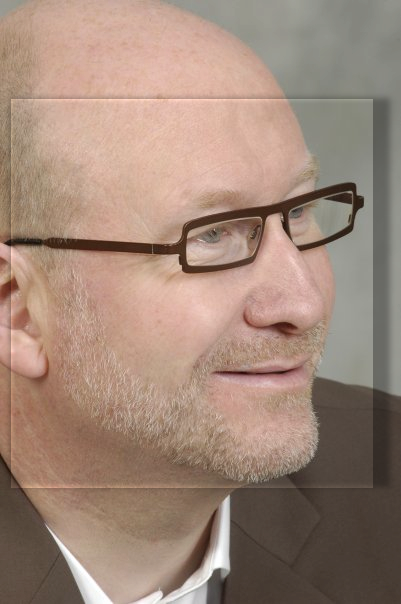
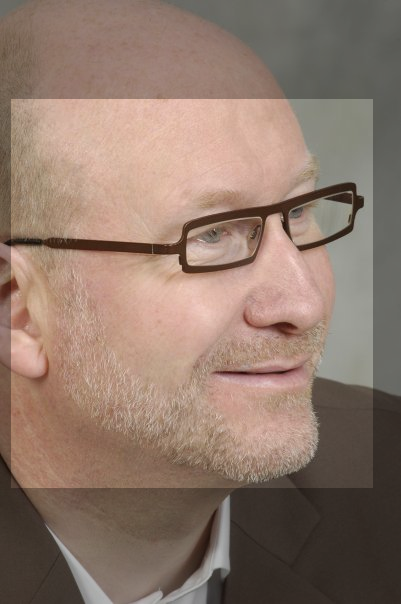
Restore exact original uploaded Papa_Photo.png photo

diff --git a/src/App.tsx b/src/App.tsx
@@ -1,7 +1,7 @@
 import { useState } from 'react';
 import { ShoppingCart, X } from 'lucide-react';
 import coverBoek from './assets/CoverBoekPapa.png';
-import papaPhoto from './assets/Papa_Photo.jpg';
+import papaPhoto from './assets/Papa_Photo.png';
 
 const BOOK_REVIEWS = [
   { text: "Dit boek lijkt dik, maar leest als een trein...", author: "Robin Demeeter, ondernemer pur sang" },
@@ -209,7 +209,7 @@ function App() {
               </div>
             </div>
             <div>
-              <img src={papaPhoto} alt="Ludo Poelaert" style={{ width: '100%', height: 'auto', display: 'block' }} />
+              <img src={papaPhoto} alt="Ludo Poelaert" style={{ width: '100%', height: 'auto', display: 'block', borderRadius: '8px' }} />
             </div>
           </div>
         </section>
